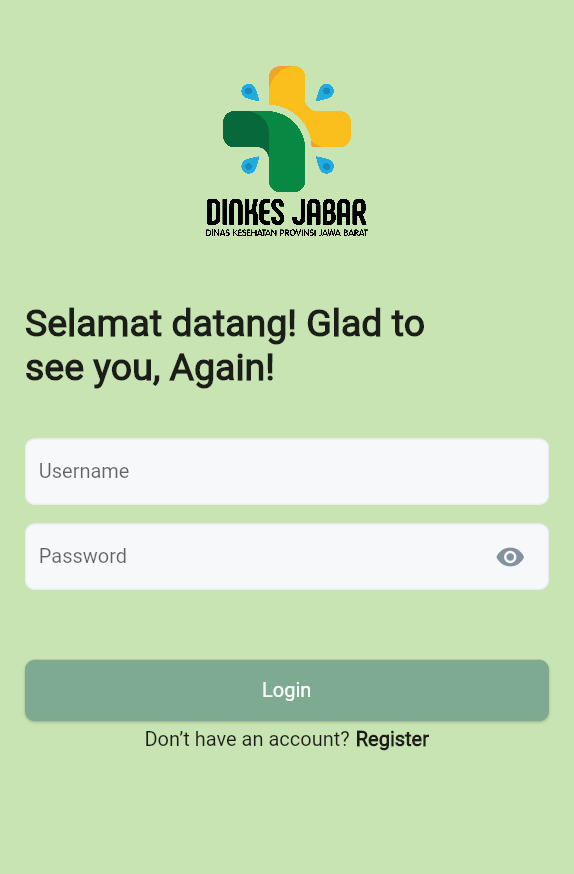
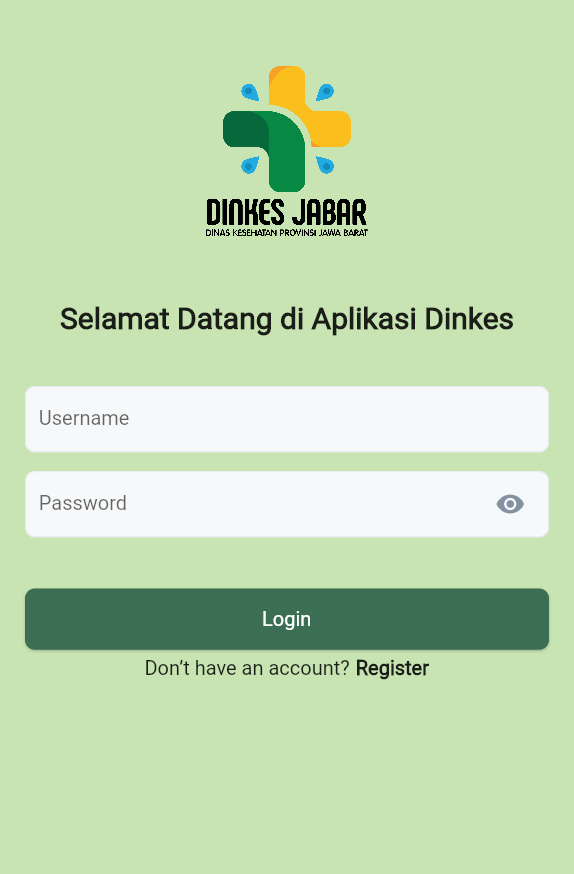
rev fix 2

diff --git a/lib/page/register.dart b/lib/page/register.dart
@@ -1,15 +1,15 @@
 import 'package:flutter/material.dart';
-import 'register.dart';
+import 'login.dart';
 import 'layout.dart';
 
-class LoginScreen extends StatefulWidget {
-  const LoginScreen({Key? key}) : super(key: key);
+class RegisterScreen extends StatefulWidget {
+  const RegisterScreen({Key? key}) : super(key: key);
 
   @override
-  _LoginScreenState createState() => _LoginScreenState();
+  _RegisterScreenState createState() => _RegisterScreenState();
 }
 
-class _LoginScreenState extends State<LoginScreen> {
+class _RegisterScreenState extends State<RegisterScreen> {
   final List<Map<String, String>> users = [
     {'username': 'user1', 'password': '12345'},
     {'username': 'user2', 'password': 'password2'},
@@ -21,44 +21,10 @@ class _LoginScreenState extends State<LoginScreen> {
 
   String errorMessage = '';
 
-  void _login() {
-    String username = usernameController.text;
-    String password = passwordController.text;
-
-    bool isAuthenticated = false;
-    for (var user in users) {
-      if (user['username'] == username && user['password'] == password) {
-        isAuthenticated = true;
-        break;
-      }
-    }
-
-    if (isAuthenticated) {
-      setState(() {
-        errorMessage = '';
-      });
-      Navigator.push(
-        context,
-        MaterialPageRoute(builder: (context) => DashboardPage()),
-      );
-    } else {
-      setState(() {
-        errorMessage = 'Username atau password salah';
-      });
-    }
-  }
-
   @override
   Widget build(BuildContext context) {
     return Scaffold(
       backgroundColor: Color.fromRGBO(200, 228, 178, 1),
-      // appBar: AppBar(
-      //   backgroundColor: Colors.white,
-      //   elevation: 0,
-      //   iconTheme: const IconThemeData(
-      //     color: Colors.black,
-      //   ),
-      // ),
       body: SafeArea(
         child: Column(
           crossAxisAlignment: CrossAxisAlignment.start,
@@ -76,14 +42,14 @@ class _LoginScreenState extends State<LoginScreen> {
               padding: const EdgeInsets.symmetric(
                 horizontal: 20,
               ),
-              child: Center(
-                child: Text(
-                  "Selamat Datang di Aplikasi Dinkes",
+              child: SizedBox(
+                width: MediaQuery.of(context).size.width * 0.8,
+                child: const Text(
+                  "Daftar untuk melanjutkan!",
                   style: TextStyle(
-                    fontSize: 24,
+                    fontSize: 30,
                     fontWeight: FontWeight.w700,
                   ),
-                  textAlign: TextAlign.center,
                 ),
               ),
             ),
@@ -172,7 +138,7 @@ class _LoginScreenState extends State<LoginScreen> {
               ),
             ),
             //forgot password
-            const SizedBox(height: 10),
+            const SizedBox(height: 25),
             //login button
             Padding(
               padding: const EdgeInsets.symmetric(
@@ -188,12 +154,16 @@ class _LoginScreenState extends State<LoginScreen> {
                         borderRadius: BorderRadius.circular(8),
                       ),
                       onPressed: () {
-                        _login();
+                        Navigator.push(
+                          context,
+                          MaterialPageRoute(
+                              builder: (context) => LoginScreen()),
+                        );
                       },
                       child: const Padding(
                         padding: EdgeInsets.all(15.0),
                         child: Text(
-                          "Login",
+                          "Daftar",
                           style: TextStyle(
                             color: Colors.white,
                             fontSize: 16,
@@ -209,7 +179,7 @@ class _LoginScreenState extends State<LoginScreen> {
               mainAxisAlignment: MainAxisAlignment.center,
               children: [
                 const Text(
-                  "Don’t have an account? ",
+                  "Have an account? ",
                   style: TextStyle(
                     fontSize: 16,
                     fontWeight: FontWeight.w500,
@@ -223,7 +193,7 @@ class _LoginScreenState extends State<LoginScreen> {
                     );
                   },
                   child: const Text(
-                    "Register",
+                    "Login",
                     style: TextStyle(
                       color: Colors.black87,
                       fontSize: 16,

diff --git a/lib/page/layout.dart b/lib/page/layout.dart
@@ -51,8 +51,8 @@ class _DashboardPageState extends State<DashboardPage> {
             label: 'Home',
           ),
           BottomNavigationBarItem(
-            icon: Icon(Icons.article),
-            label: 'News',
+            icon: Icon(Icons.medical_services),
+            label: 'Layanan',
           ),
           BottomNavigationBarItem(
             icon: Icon(Icons.info),
@@ -62,23 +62,6 @@ class _DashboardPageState extends State<DashboardPage> {
         currentIndex: _selectedIndex,
         selectedItemColor: Color.fromARGB(255, 60, 168, 98),
         onTap: _onItemTapped,
-      ),
-    );
-  }
-}
-
-class WelcomeCard extends StatelessWidget {
-  @override
-  Widget build(BuildContext context) {
-    return Card(
-      margin: EdgeInsets.all(16.0),
-      elevation: 4.0,
-      child: Padding(
-        padding: EdgeInsets.all(16.0),
-        child: Text(
-          'Selamat datang di Aplikasi Dashboard!',
-          style: TextStyle(fontSize: 18.0),
-        ),
       ),
     );
   }

diff --git a/lib/page/about.dart b/lib/page/about.dart
@@ -11,7 +11,7 @@ class About extends StatelessWidget {
         mainAxisAlignment: MainAxisAlignment.center,
         children: [
           Image.asset(
-            'images/dinkes_logo.png', // Pastikan Anda memiliki logo yang sesuai di folder images
+            'assets/dinkes_logo.png', // Pastikan Anda memiliki logo yang sesuai di folder images
             width: 150,
             height: 150,
           ),

diff --git a/README.md b/README.md
@@ -5,5 +5,5 @@ Aplikasi Dinas Kesehatan
 ## Demo
 | | | |
 |:-------------------------:|:-------------------------:|:-------------------------:|
-|Home : <img width="1024" src="https://github.com/MasSahal/uas-smt4-mobile-programming/blob/main/assets/login.png?raw=true">|Home : <img width="1024" src="https://github.com/MasSahal/uas-smt4-mobile-programming/blob/main/assets/home.png?raw=true">|Layanan : <img width="1024" src="https://github.com/MasSahal/uas-smt4-mobile-programming/blob/main/assets/layanan.png?raw=true">|
-|About : <img width="1024" src="https://github.com/MasSahal/uas-smt4-mobile-programming/blob/main/assets/about.png?raw=true">|
+|Login : <img width="1024" src="https://github.com/MasSahal/uas-smt4-mobile-programming/blob/main/assets/login.png?raw=true">|register : <img width="1024" src="https://github.com/MasSahal/uas-smt4-mobile-programming/blob/main/assets/register.png?raw=true">|Home : <img width="1024" src="https://github.com/MasSahal/uas-smt4-mobile-programming/blob/main/assets/home.png?raw=true">|
+|Layanan : <img width="1024" src="https://github.com/MasSahal/uas-smt4-mobile-programming/blob/main/assets/layanan.png?raw=true">|About : <img width="1024" src="https://github.com/MasSahal/uas-smt4-mobile-programming/blob/main/assets/about.png?raw=true">|
